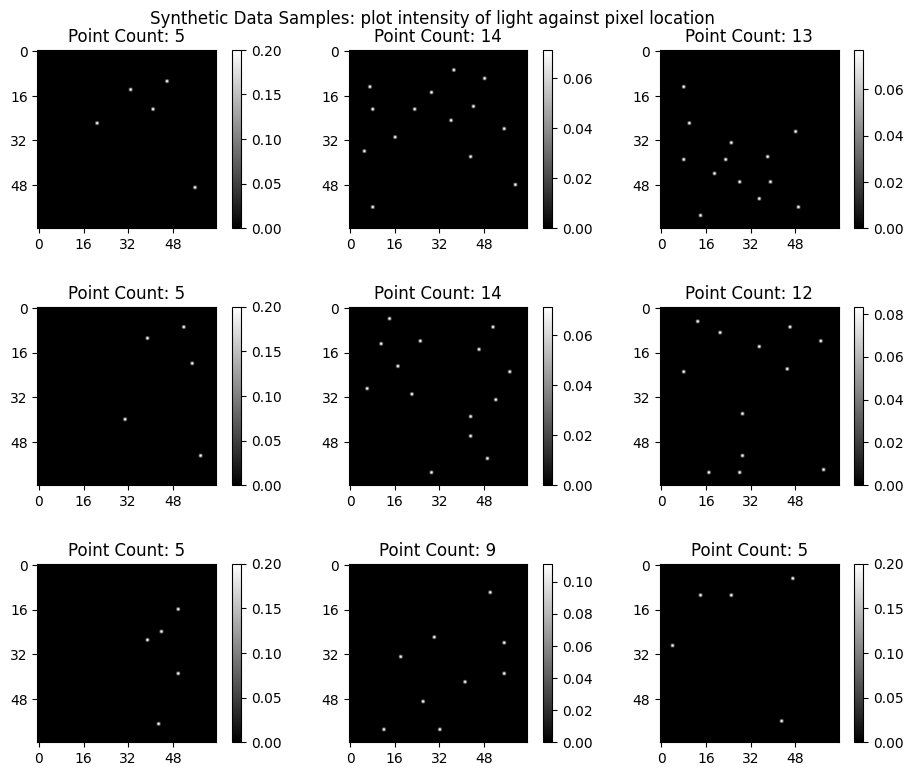
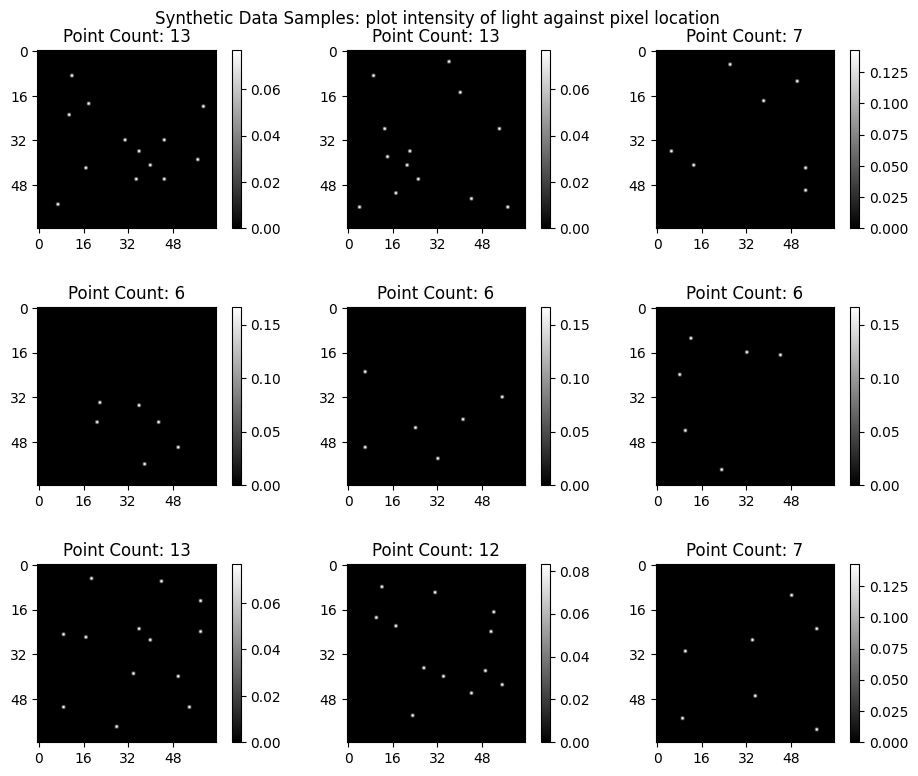
removed extra convergence checks

diff --git a/vanillanet/gs.py b/vanillanet/gs.py
@@ -43,7 +43,7 @@ class GerchbergSaxtonSolver:
             self.slm_phase = initial_phase.to(device)
 
     def iterate(self, num_iterations=1000, convergence_threshold=1e-6, weighted=False, epsilon=1e-10,
-            inefficiency_threshold=0.3, non_uniformity_threshold=0.1):
+            inefficiency_threshold=0.3, non_uniformity_threshold=0.1, print_values=False):
         """
         Perform Gerchberg-Saxton iterations.
         
@@ -66,12 +66,13 @@ class GerchbergSaxtonSolver:
 
         # Quality thresholds for weighted GS
         if weighted:
-            inefficiency_threshold = 0.3
-            non_uniformity_threshold = 0.1
+            # inefficiency_threshold = 0.3
+            # non_uniformity_threshold = 0.1
             prev_g = torch.ones_like(self.target_amplitude)
-            print(f"Weighted GS quality requirements:")
-            print(f"  Inefficiency must be < {inefficiency_threshold}")
-            print(f"  Non-uniformity must be < {non_uniformity_threshold}")
+            # if print_values:
+            #     print(f"Weighted GS quality requirements:")
+            #     print(f"  Inefficiency must be < {inefficiency_threshold}")
+            #     print(f"  Non-uniformity must be < {non_uniformity_threshold}")
         
         for i in range(num_iterations):
             # Forward propagation: SLM plane -> Image plane
@@ -128,48 +129,50 @@ class GerchbergSaxtonSolver:
             mse_error = torch.mean((B_image - self.target_amplitude) ** 2).item()
             errors.append(mse_error)
             
-            # Check for convergence
-            inefficiency_change = abs(prev_inefficiency - current_inefficiency)
-            non_uniformity_change = abs(prev_non_uniformity - current_non_uniformity)
+            # # Check for convergence
+            # inefficiency_change = abs(prev_inefficiency - current_inefficiency)
+            # non_uniformity_change = abs(prev_non_uniformity - current_non_uniformity)
             
-            # Convergence criteria depend on whether weighted GS is used
-            if weighted:
-                # For weighted GS: require both quality thresholds AND convergence stability
+            # # Convergence criteria depend on whether weighted GS is used
+            # if weighted:
+            #     # For weighted GS: require both quality thresholds AND convergence stability
+            #     stability_met = (inefficiency_change < convergence_threshold and 
+            #                 non_uniformity_change < convergence_threshold and 
+            #                 i > 10)  
                 
-                stability_met = (inefficiency_change < convergence_threshold and 
-                            non_uniformity_change < convergence_threshold and 
-                            i > 10)  # Require more iterations for weighted GS
-                
-                if stability_met:
-                    print(f"Weighted GS converged after {i+1} iterations")
-                    print(f"Stability achieved:")
-                    print(f"  Inefficiency change: {inefficiency_change:.8f} < {convergence_threshold}")
-                    print(f"  Non-uniformity change: {non_uniformity_change:.8f} < {convergence_threshold}")
-                    break
-                elif i % 50 == 0:
-                    print(f"Iteration {i+1}: Waiting for stability...")
-                    print(f"  Inefficiency change: {inefficiency_change:.8f} (need < {convergence_threshold})")
-                    print(f"  Non-uniformity change: {non_uniformity_change:.8f} (need < {convergence_threshold})")
+            #     if stability_met:
+            #         if print_values:
+            #             print(f"Weighted GS converged after {i+1} iterations")
+            #             print(f"Stability achieved:")
+            #             print(f"  Inefficiency change: {inefficiency_change:.8f} < {convergence_threshold}")
+            #             print(f"  Non-uniformity change: {non_uniformity_change:.8f} < {convergence_threshold}")
+            #         break
+            #     elif i % 50 == 0:
+            #         if print_values:
+            #             print(f"Iteration {i+1}: Waiting for stability...")
+            #             print(f"  Inefficiency change: {inefficiency_change:.8f} (need < {convergence_threshold})")
+            #             print(f"  Non-uniformity change: {non_uniformity_change:.8f} (need < {convergence_threshold})")
 
                     
-            else:
-                # For standard GS: use original convergence criteria
-                if (inefficiency_change < convergence_threshold and 
-                    non_uniformity_change < convergence_threshold and 
-                    i > 10):
-                    print(f"Standard GS converged after {i+1} iterations")
-                    print(f"Final inefficiency: {current_inefficiency:.6f} (change: {inefficiency_change:.8f})")
-                    print(f"Final non-uniformity: {current_non_uniformity:.6f} (change: {non_uniformity_change:.8f})")
-                    break
+            # else: # For standard GS: use original convergence criteria
+            #     if (inefficiency_change < convergence_threshold and 
+            #         non_uniformity_change < convergence_threshold and 
+            #         i > 10):
+            #         if print_values:
+            #             print(f"Standard GS converged after {i+1} iterations")
+            #             print(f"Final inefficiency: {current_inefficiency:.6f} (change: {inefficiency_change:.8f})")
+            #             print(f"Final non-uniformity: {current_non_uniformity:.6f} (change: {non_uniformity_change:.8f})")
+            #         break
                 
             prev_inefficiency = current_inefficiency
             prev_non_uniformity = current_non_uniformity
             
-            if i % 10 == 0:
-                print(f"Iteration {i+1}/{num_iterations}")
-                print(f"  MSE Error: {mse_error:.6f}")
-                print(f"  Inefficiency: {current_inefficiency:.6f}")
-                print(f"  Non-uniformity: {current_non_uniformity:.6f}")
+            if print_values:
+                if i % 10 == 0:
+                    print(f"Iteration {i+1}/{num_iterations}")
+                    print(f"  MSE Error: {mse_error:.6f}")
+                    print(f"  Inefficiency: {current_inefficiency:.6f}")
+                    print(f"  Non-uniformity: {current_non_uniformity:.6f}")
                     
         
         return self.slm_phase, {
@@ -189,7 +192,7 @@ class GerchbergSaxtonSolver:
         return B_image
 
 
-def gerchberg_saxton(target_image, num_iterations=1000, convergence_threshold=1e-6, device='cpu', weighted=False, epsilon=1e-10):
+def gerchberg_saxton(target_image, num_iterations=1000, convergence_threshold=1e-6, device='cpu', weighted=False, epsilon=1e-10, print_values=False):
     """
     Convenience function to run Gerchberg-Saxton algorithm.
     
@@ -210,7 +213,7 @@ def gerchberg_saxton(target_image, num_iterations=1000, convergence_threshold=1e
     solver = GerchbergSaxtonSolver(target_amplitude, device=device)
     
     # Run iterations
-    slm_phase, errors = solver.iterate(num_iterations=num_iterations, convergence_threshold=convergence_threshold, weighted=weighted, epsilon=epsilon)
+    slm_phase, errors = solver.iterate(num_iterations=num_iterations, convergence_threshold=convergence_threshold, weighted=weighted, epsilon=epsilon, print_values=print_values)
     
     # Get final reconstruction amplitude
     reconstructed = solver.get_reconstructed_image()
@@ -218,7 +221,7 @@ def gerchberg_saxton(target_image, num_iterations=1000, convergence_threshold=1e
     return slm_phase, reconstructed, errors
 
 
-def gerchberg_saxton_with_metrics(target_image, num_iterations=1000, device='cpu', convergence_threshold=1e-6, weighted=False, epsilon=1e-10):
+def gerchberg_saxton_with_metrics(target_image, num_iterations=1000, device='cpu', convergence_threshold=1e-6, weighted=False, epsilon=1e-10, print_values=False):
     """
     Enhanced Gerchberg-Saxton algorithm that returns detailed metrics.
     
@@ -242,7 +245,8 @@ def gerchberg_saxton_with_metrics(target_image, num_iterations=1000, device='cpu
     slm_phase, metric_histories = solver.iterate(num_iterations=num_iterations, 
                                             convergence_threshold=convergence_threshold, 
                                             weighted=weighted, 
-                                            epsilon=epsilon)
+                                            epsilon=epsilon,
+                                            print_values=print_values)
     end_time = perf_counter()
     reconstruction_time = end_time - start_time
     
@@ -372,7 +376,7 @@ def visualize_gs_results_multirow(gs_results_list, save_path='images/gs_results_
     plt.show()
 
 
-def test_gs_multiple_samples(dataset, num_samples=5, device=None, debug=False, weighted=False, convergence_threshold=1e-6, epsilon=1e-10, num_iterations=1000):
+def test_gs_multiple_samples(dataset, num_samples=5, device=None, debug=False, weighted=False, convergence_threshold=1e-6, epsilon=1e-10, num_iterations=1000, print_values=False, print_metrics = True, print_summary = True):
     """
     Test GS algorithm on multiple samples from dataset with multi-row visualization.
     
@@ -400,41 +404,44 @@ def test_gs_multiple_samples(dataset, num_samples=5, device=None, debug=False, w
         target = dataset[i]  # Shape: (1, 64, 64)
         
         # Run GS algorithm with metrics
-        results = gerchberg_saxton_with_metrics(target, num_iterations=num_iterations, device=device, weighted=weighted, convergence_threshold=convergence_threshold, epsilon=epsilon)
+        results = gerchberg_saxton_with_metrics(target, num_iterations=num_iterations, device=device, weighted=weighted, convergence_threshold=convergence_threshold, epsilon=epsilon, print_values=print_values)
         all_results.append(results)
         
         # Print progress
-        metrics = results['metrics']
-        print(f"Inefficiency: {metrics['inefficiency']:.4f}")
-        print(f"Non-uniformity: {metrics['non_uniformity']:.4f}")
-        print(f"Intensity error: {metrics['intensity_error']:.4f}")
+        if print_metrics:
+            metrics = results['metrics']
+            print(f"Inefficiency: {metrics['inefficiency']:.4f}")
+            print(f"Non-uniformity: {metrics['non_uniformity']:.4f}")
+            print(f"Intensity error: {metrics['intensity_error']:.4f}")
     
     # Create the multi-row visualization
     print(f"\nCreating {num_samples}-row visualization...")
     visualize_gs_results_multirow(all_results, f'images/gs_results_{num_samples}rowWeighted{weighted}.png', debug=debug, weighted=weighted)
     
     # Print summary table
-    print(f"\nGS Algorithm Results Summary:")
-    print(f"Weighted: {weighted}")
-    print(f"{'Sample':<8} {'Points':<6} {'Ineff':<8} {'Non-unif':<8} {'Intensity err':<8}")
-    print("-" * 50)
-    for i, results in enumerate(all_results):
-        metrics = results['metrics']
-        target_amplitude = results['target_image']
-        if hasattr(target_amplitude, 'cpu'):
-            target_amplitude = target_amplitude.cpu().numpy()
-        n_points = int(np.sum(target_amplitude > 0))
-        print(f"Sample {i+1:<2} {n_points:<6} {metrics['inefficiency']:<8.3f} "
-              f"{metrics['non_uniformity']:<8.3f} {metrics['intensity_error']:<8.3f}")
+    if print_summary:
+        print(f"\nGS Algorithm Results Summary:")
+        print(f"Weighted: {weighted}")
+        print(f"{'Sample':<8} {'Points':<6} {'Ineff':<8} {'Non-unif':<8} {'Intensity err':<8}")
+        print("-" * 50)
+        for i, results in enumerate(all_results):
+            metrics = results['metrics']
+            target_amplitude = results['target_image']
+            if hasattr(target_amplitude, 'cpu'):
+                target_amplitude = target_amplitude.cpu().numpy()
+            n_points = int(np.sum(target_amplitude > 0))
+            print(f"Sample {i+1:<2} {n_points:<6} {metrics['inefficiency']:<8.3f} "
+                f"{metrics['non_uniformity']:<8.3f} {metrics['intensity_error']:<8.3f}")
     
     return all_results
 
 
-def test_gerchberg_saxton(debug=False, weighted=False, epsilon=1e-10, convergence_threshold=1e-6, num_iterations=1000, num_samples=5):
+def test_gerchberg_saxton(debug=False, weighted=False, epsilon=1e-10, convergence_threshold=1e-6, num_iterations=1000, num_samples=5, print_values=False):
     """Test the Gerchberg-Saxton implementation with enhanced visualization
         Args:
             debug: If True, shows detailed debug information
             weighted: If True, use weighted Gerchberg-Saxton algorithm
+            print_values: If True, print metrics during GS iterations
     """
     from .data import DiscretePointsDataset
     
@@ -444,6 +451,6 @@ def test_gerchberg_saxton(debug=False, weighted=False, epsilon=1e-10, convergenc
     
     # Test multiple samples with the new visualization
     device = 'cuda' if torch.cuda.is_available() else 'cpu'
-    all_results = test_gs_multiple_samples(dataset, num_samples=num_samples, device=device, debug=debug, weighted=weighted, epsilon=epsilon, convergence_threshold=convergence_threshold, num_iterations=num_iterations)
+    all_results = test_gs_multiple_samples(dataset, num_samples=num_samples, device=device, debug=debug, weighted=weighted, epsilon=epsilon, convergence_threshold=convergence_threshold, num_iterations=num_iterations, print_values=print_values)
     
     return all_results

diff --git a/vanillanet/compare.py b/vanillanet/compare.py
@@ -115,18 +115,15 @@ def compare_all_methods(dataset, model, device, num_samples=5, save_path='images
         # Time the neural network inference and reconstruction
         start_time = perf_counter()
         with torch.no_grad():
-            # ENSURE ALL TENSORS ARE ON THE SAME DEVICE AS MODEL
-            target_torch_model = target_torch.to(device)  # Explicitly ensure correct device
+            target_torch_model = target_torch.to(device)  
             
-            # Model inference - now both model and input are on same device
+            # Model inference 
             model_out = model(target_torch_model)
             w_i = model_out[:, :, 0]
             theta_i = model_out[:, :, 1]
-            
-            # Ensure w_theta_grid gets tensors on correct device
             w_grid, theta_grid = w_theta_grid(w_i, theta_i, target_torch_model)
             
-            # Rest of reconstruction pipeline
+            # Reconstruction pipeline
             _, phi_recon = inverse_complex_ft(w_grid, theta_grid)
             A_const = torch.ones_like(target_torch_model)
             recon, _ = calculate_complex_ft(A_const, phi_recon)
